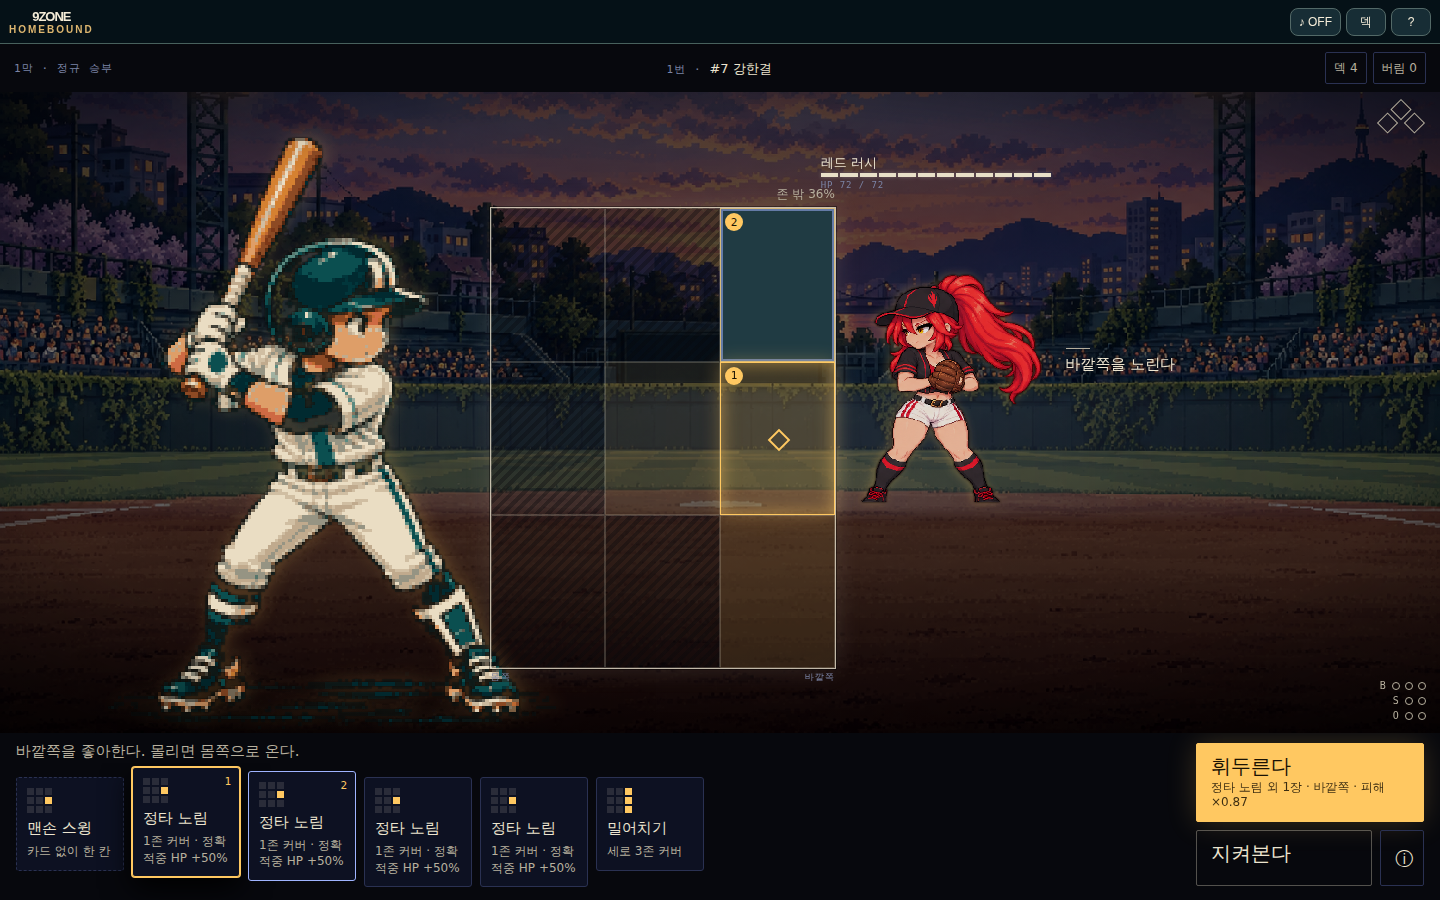
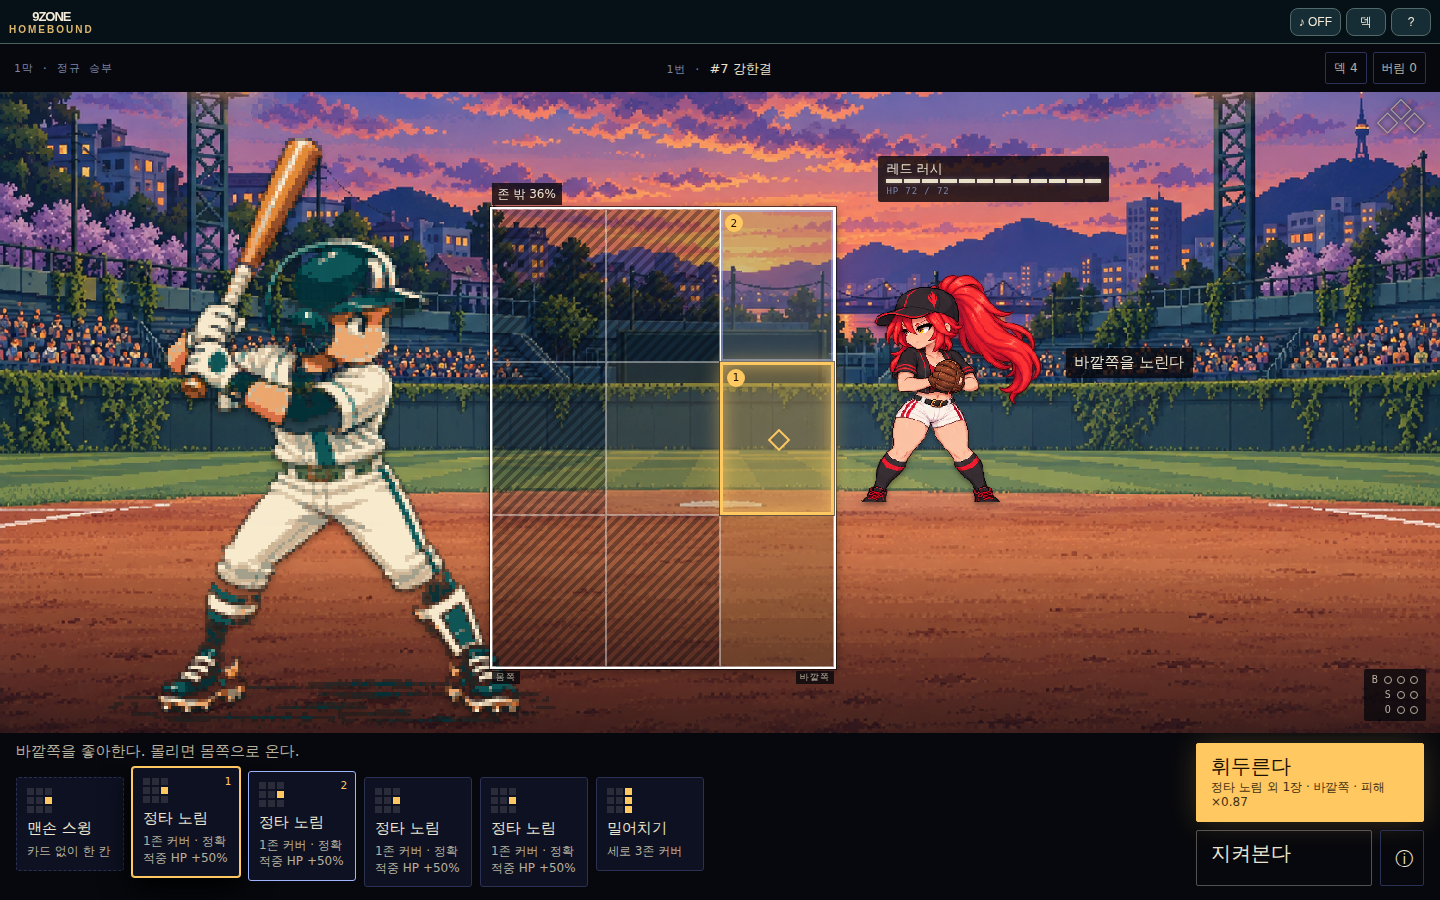
feat(ui): bright stadium for the night-game battle
User call: the SD actors are bright, so use the park at full brightness instead of dimming both.
Scene text (pitcher tag, intent, count, zone labels) now sits on dark plates; the zone frame is
white; the aim cell gets a solid sodium outline. The app-wide button:hover teal no longer paints
the zone cells, cards or verbs.

Claude-Session: https://claude.ai/code/session_01T99hSSjCnNhKyvNdt23UvM

diff --git a/src/duel/nightgame.css b/src/duel/nightgame.css
@@ -18,40 +18,42 @@
 
 /* scene */
 .ng-scene{position:relative;overflow:hidden;background:var(--ng-night)}
-.ng-bg{position:absolute;inset:0;background:url('../../assets/duel/stadium.png') 52% 64%/cover no-repeat;image-rendering:pixelated;filter:saturate(.72) brightness(.62) contrast(1.08)}
-.ng-bg::after{content:"";position:absolute;inset:0;background:radial-gradient(ellipse 60% 30% at 50% 0,#ffd98a22,transparent 70%),linear-gradient(180deg,#141a3388,#141a3333 45%,#07080dcc 100%)}
-.ng-scene::after{content:"";position:absolute;inset:0;pointer-events:none;background:radial-gradient(ellipse 90% 85% at 50% 50%,transparent 55%,#000c 100%)}
+.ng-bg{position:absolute;inset:0;background:url('../../assets/duel/stadium.png') 52% 64%/cover no-repeat;image-rendering:pixelated}
+/* bright stadium (user call 2026-09-25): the SD actors are bright, so the park is too; only the bottom edge
+   darkens into the letterbox */
+.ng-bg::after{content:"";position:absolute;inset:0;background:linear-gradient(180deg,transparent 70%,#07080d99 100%)}
+.ng-scene::after{content:"";position:absolute;inset:0;pointer-events:none;background:radial-gradient(ellipse 95% 90% at 50% 50%,transparent 70%,#0006 100%)}
 .ng-haze{position:absolute;left:-10%;right:-10%;top:46%;height:20%;background:linear-gradient(90deg,transparent,#c9d2ff14 30%,#c9d2ff1f 60%,transparent);filter:blur(6px);animation:ng-drift 14s ease-in-out infinite alternate;pointer-events:none}
 @keyframes ng-drift{to{transform:translateX(6%)}}
-.ng-pitcher{position:absolute;left:44%;top:18%;height:24%;aspect-ratio:1;filter:drop-shadow(0 0 1px #000) drop-shadow(-2px 0 5px #ffc86155) brightness(.9)}
-.ng-batter{position:absolute;left:-16%;bottom:-2%;height:64%;aspect-ratio:1;filter:drop-shadow(0 0 1px #000) drop-shadow(4px -2px 8px #ffc86140) brightness(.95)}
+.ng-pitcher{position:absolute;left:44%;top:18%;height:24%;aspect-ratio:1;filter:drop-shadow(0 3px 2px #0005)}
+.ng-batter{position:absolute;left:-16%;bottom:-2%;height:64%;aspect-ratio:1;filter:drop-shadow(0 4px 3px #0005)}
 .ng-pitcher>*,.ng-batter>*{display:block;width:100%;height:100%;image-rendering:pixelated}
-.ng-ptag{position:absolute;left:43%;top:9%;width:32%;display:grid;gap:4px;font-size:13px;line-height:1;z-index:2}
+.ng-ptag{position:absolute;left:43%;top:9%;width:32%;display:grid;gap:4px;padding:6px 8px;border-radius:2px;background:#07080dcc;font-size:13px;line-height:1;z-index:2}
 .ng-ticks{display:grid;grid-template-columns:repeat(12,1fr);gap:2px}
 .ng-ticks i{height:4px;background:#e8e0c8;box-shadow:0 0 4px #fff4}
 .ng-ticks i.lost{background:#e8e0c833;box-shadow:none}
 .ng-ptag small{font:400 9px/1 var(--ng-led);letter-spacing:.1em;color:var(--ng-slate)}
-.ng-whisper{position:absolute;right:14px;top:28%;margin:0;max-width:40%;text-align:right;font:italic 400 15px/1.3 var(--ng-ko);color:var(--ng-bone);text-shadow:0 0 12px #000;z-index:2}
-.ng-whisper::before{content:"";display:block;width:24px;height:1px;background:var(--ng-bone-dim);margin:0 0 6px auto}
+.ng-whisper{position:absolute;right:14px;top:28%;margin:0;max-width:40%;padding:5px 9px;border-radius:2px;background:#07080dcc;text-align:right;font:italic 400 15px/1.3 var(--ng-ko);color:var(--ng-bone);z-index:2}
+.ng-whisper::before{content:none}
 
 /* the 9ZONE: a broadcast strike zone in the scene */
-.ng-zone{position:absolute;left:38%;top:44%;width:56%;height:46%;display:grid;grid-template-columns:repeat(3,1fr);grid-template-rows:repeat(3,1fr);border:1px solid #ece4cfcc;box-shadow:0 0 0 1px #0006,0 0 24px #ece4cf22;background:#07080d2a;z-index:3}
-.ng-cell{position:relative;appearance:none;border:1px solid #ece4cf33;border-radius:0;padding:0;cursor:pointer;background:rgba(255,200,97,calc(var(--heat,0)*.16));transition:background .12s,box-shadow .12s}
+.ng-zone{position:absolute;left:38%;top:44%;width:56%;height:46%;display:grid;grid-template-columns:repeat(3,1fr);grid-template-rows:repeat(3,1fr);border:2px solid #fff;box-shadow:0 0 0 1px #0009,0 2px 10px #0006;background:#07080d33;z-index:3}
+.ng-cell{position:relative;appearance:none;border:1px solid #ffffff66;border-radius:0;padding:0;cursor:pointer;background:rgba(255,200,97,calc(var(--heat,0)*.16));transition:background .12s,box-shadow .12s}
 .ng-cell.dead{background:repeating-linear-gradient(135deg,#07080d55 0 4px,transparent 4px 8px)}
 .ng-cell.cover{background:#ffc86124;border-color:#ffc861aa}
 .ng-cell.assist{box-shadow:inset 0 0 0 2px #9fb4ff88}
-.ng-cell.aim{background:#ffc86138;border-color:var(--ng-sodium);box-shadow:inset 0 0 18px #ffc86188,0 0 18px #ffc86155}
+.ng-cell.aim{background:#ffc86155;border:3px solid var(--ng-sodium);outline:3px solid var(--ng-sodium);outline-offset:-3px;z-index:1;box-shadow:inset 0 0 18px #ffc861aa,0 0 0 1px #0008,0 0 18px #ffc86188}
 .ng-cell.aim::after{content:"";position:absolute;left:50%;top:50%;width:12px;height:12px;margin:-6px 0 0 -6px;border:2px solid var(--ng-sodium);transform:rotate(45deg)}
 .ng-cell.target:hover{border-color:#9fb4ff}
 .ng-token{position:absolute;left:4px;top:4px;display:grid;place-items:center;width:18px;height:18px;border-radius:50%;background:var(--ng-sodium);color:#1a1204;font:400 11px/1 var(--ng-led)}
-.ng-side{position:absolute;top:100%;margin-top:5px;font:400 9px/1 var(--ng-led);letter-spacing:.12em;color:var(--ng-slate)}
+.ng-side{position:absolute;top:100%;margin-top:4px;padding:2px 4px;background:#07080dcc;font:400 9px/1 var(--ng-led);letter-spacing:.12em;color:var(--ng-bone-dim)}
 .ng-side.l{left:0}.ng-side.r{right:0}
-.ng-ball{position:absolute;bottom:100%;right:0;margin-bottom:5px;font-size:12px;color:var(--ng-bone-dim);white-space:nowrap}
-.ng-count{position:absolute;left:12px;top:12px;display:grid;gap:5px;font:400 10px/1 var(--ng-led);letter-spacing:.12em;color:var(--ng-bone-dim);z-index:2}
+.ng-ball{position:absolute;bottom:100%;left:0;margin-bottom:4px;padding:2px 6px;background:#07080dcc;font-size:12px;color:var(--ng-bone);white-space:nowrap}
+.ng-count{position:absolute;left:12px;top:12px;display:grid;gap:5px;padding:6px 8px;background:#07080dcc;border-radius:2px;font:400 10px/1 var(--ng-led);letter-spacing:.12em;color:var(--ng-bone-dim);z-index:2}
 .ng-count div{display:flex;gap:5px;align-items:center}
 .ng-count u{display:inline-block;width:8px;height:8px;border-radius:50%;border:1px solid var(--ng-bone-dim)}
 .ng-count u.on{background:var(--ng-sodium);border-color:var(--ng-sodium);box-shadow:0 0 6px var(--ng-sodium)}
-.ng-bases{position:absolute;left:14px;top:76px;width:34px;height:34px;transform:rotate(45deg);display:grid;grid-template-columns:1fr 1fr;gap:4px;z-index:2}
+.ng-bases{position:absolute;left:18px;top:86px;filter:drop-shadow(0 0 2px #000);width:34px;height:34px;transform:rotate(45deg);display:grid;grid-template-columns:1fr 1fr;gap:4px;z-index:2}
 .ng-bases i{border:1px solid var(--ng-bone-dim)}
 .ng-bases i.on{background:var(--ng-sodium);border-color:var(--ng-sodium);box-shadow:0 0 6px var(--ng-sodium)}
 .ng-bases i.base-2{grid-column:1;grid-row:1}.ng-bases i.base-3{grid-column:1;grid-row:2}.ng-bases i.base-1{grid-column:2;grid-row:1}
@@ -85,6 +87,17 @@
 .ng-verb.wait{background:transparent;border-color:#ece4cf55}
 .ng-info{appearance:none;width:48px;border:1px solid var(--ng-line);border-radius:2px;background:none;cursor:pointer;font-size:18px!important}
 
+/* the app-wide `button:hover:not(:disabled)` (duel.css) paints every button teal; the scene keeps its own */
+.ng-battle .ng-cell:hover:not(:disabled){background:rgba(255,255,255,.14);border-color:#fff}
+.ng-battle .ng-cell.cover:hover:not(:disabled){background:#ffc86133;border-color:#ffc861}
+.ng-battle .ng-cell.aim:hover:not(:disabled){background:#ffc86166;border-color:var(--ng-sodium)}
+.ng-battle .ng-card:hover:not(:disabled){background:#141a33;border-color:var(--ng-slate)}
+.ng-battle .ng-card.main:hover:not(:disabled){border-color:var(--ng-sodium)}
+.ng-battle .ng-card:is(.support,.armed):hover:not(:disabled){border-color:#9fb4ff}
+.ng-battle .ng-token-card:hover:not(:disabled){background:radial-gradient(circle at 50% 35%,#252d58,#0d1122);border-color:var(--ng-slate)}
+.ng-battle .ng-verb.go:hover:not(:disabled){background:#ffd584;border-color:var(--ng-sodium)}
+.ng-battle .ng-verb.wait:hover:not(:disabled),.ng-battle .ng-info:hover:not(:disabled),.ng-battle .ng-piles button:hover:not(:disabled){background:#141a33;border-color:var(--ng-bone-dim)}
+
 /* landscape phones and desktop: one screen, hand and verbs share the bottom band */
 @media (orientation:landscape){
   .ng-battle{height:calc(100dvh - var(--ng-top));min-height:0;grid-template-columns:minmax(0,1fr) auto;grid-template-rows:auto minmax(0,1fr) auto auto;
@@ -96,7 +109,7 @@
   .ng-bg{background-position:50% 70%}
   .ng-pitcher{left:57%;top:24%;height:40%}
   .ng-batter{left:1%;bottom:-4%;height:100%}
-  .ng-ptag{left:57%;top:10%;width:16%}
+  .ng-ptag{left:61%;top:10%;width:16%}
   .ng-whisper{right:auto;left:74%;top:40%;max-width:22%;text-align:left}
   .ng-whisper::before{margin-left:0}
   .ng-zone{left:34%;top:18%;width:auto;height:72%;aspect-ratio:3/4}

diff --git a/tests/ng-battle.test.jsx b/tests/ng-battle.test.jsx
@@ -27,6 +27,8 @@ const swingBtn=()=>screen.getByTestId('ng-swing');
 const cells=()=>[...document.querySelectorAll('.ng-cell')];
 const cards=()=>[...document.querySelectorAll('.ng-hand .ng-card:not(.basic)')];
 
+const topLevel=sel=>{const out=[];let d=0,cur='';for(const ch of sel){if(ch==='(')d++;if(ch===')')d--;if(ch===','&&!d){out.push(cur);cur='';}else cur+=ch;}out.push(cur);return out;};
+
 describe('V13 NG-1 night-game battle',()=>{
   it('stays off unless the flag is on: the legacy battle is untouched',()=>{
     begin(false);
@@ -95,7 +97,7 @@ describe('V13 NG-1 night-game battle',()=>{
   it('keeps every style under .ng-battle',()=>{
     const css=fs.readFileSync(path.resolve('src/duel/nightgame.css'),'utf8').replace(/\/\*[\s\S]*?\*\//g,'');
     const sels=[...css.matchAll(/([^{}]+)\{[^{}]*\}/g)].map(m=>m[1].trim()).filter(x=>!x.startsWith('@')&&!/^(to|from|\d+%)$/.test(x));
-    for(const sel of sels.map(x=>x.replace(/^@media[^{]*\{/,'').trim()))for(const part of sel.split(','))
+    for(const sel of sels.map(x=>x.replace(/^@media[^{]*\{/,'').trim()))for(const part of topLevel(sel))
       expect(part.trim()).toMatch(/^\.ng-/);
     expect(css).not.toMatch(/(^|[},])\s*(html|body|#root|\.duel-app|\.duel-combat)\b/);
   });

diff --git a/docs/design/v13/NIGHTGAME.md b/docs/design/v13/NIGHTGAME.md
@@ -10,13 +10,14 @@
 - 문구가 규칙 설명서처럼 길고 현학적이다.
 - 기준: 아르티스 임팩트처럼 장면 하나가 화면이 되는 도트 게임.
 
-## 다섯 가지 규칙 (모든 화면)
+## 여섯 가지 규칙 (모든 화면)
 
 1. **장면이 먼저.** 위아래 검은 띠 안에 경기장 한 장면. 정보 패널은 장면 위에 올리지 않고 띠로 내린다.
-2. **강조색은 하나.** 조명 노랑 `#ffc861`만. 노리는 칸, 휘두르기 버튼, 볼카운트 불빛, 갈 수 있는 지도 칸. 나머지는 남색 `#141a33` · 먹색 `#07080d` · 뼈색 `#ece4cf` · 청회색 `#7b84a6`.
-3. **UI는 그림 속에.** 9존은 중계 화면처럼 타석 앞에 뜬 스트라이크 존. 투수 HP는 머리 위 눈금 12칸. 볼카운트는 구석의 작은 불빛.
-4. **행동은 동사 두 개.** "휘두른다" / "지켜본다". 효율·커버 계산은 버튼 아래 한 줄. 원문 규칙은 카드 상세 시트.
-5. **설명하지 말고 말하기.** 짧은 해설자 톤. 불확실함은 "확정 예고 아님" 같은 단서 대신 속삭이는 글씨체(기울임)로.
+2. **경기장은 밝게** (사용자 2026-09-25: "캐릭터가 밝은 건 밝은 경기장을 쓰면 되지"). 밝은 SD 캐릭터를 어둡게 누르지 않고, 경기장 원본 밝기를 쓴다. 장면 위 글자는 먹색 받침(`#07080dcc`) 위에 둔다. 어두운 건 위아래 띠뿐.
+3. **강조색은 하나.** 조명 노랑 `#ffc861`만. 노리는 칸, 휘두르기 버튼, 볼카운트 불빛, 갈 수 있는 지도 칸. 나머지는 남색 `#141a33` · 먹색 `#07080d` · 뼈색 `#ece4cf` · 청회색 `#7b84a6`.
+4. **UI는 그림 속에.** 9존은 중계 화면처럼 타석 앞에 뜬 스트라이크 존. 투수 HP는 머리 위 눈금 12칸. 볼카운트는 구석의 작은 불빛.
+5. **행동은 동사 두 개.** "휘두른다" / "지켜본다". 효율·커버 계산은 버튼 아래 한 줄. 원문 규칙은 카드 상세 시트.
+6. **설명하지 말고 말하기.** 짧은 해설자 톤. 불확실함은 "확정 예고 아님" 같은 단서 대신 속삭이는 글씨체(기울임)로.
 
 글꼴: 제목 Black Han Sans, 본문 Gowun Dodum, 숫자·라벨 Silkscreen.
 
@@ -27,7 +28,7 @@
 ## 미정
 
 - 말투: 해설자 톤(시안) vs 코치 반말 톤.
-- 캐릭터: SD 캐릭터가 경기장보다 밝고 깨끗해 떠 보인다. 경기장 밀도로 다시 그릴지.
+- ~~캐릭터 밝기~~ → 밝은 경기장으로 해결(규칙 2).
 
 ## 구현 계획
 
